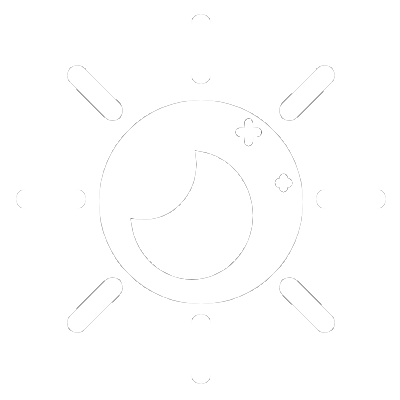
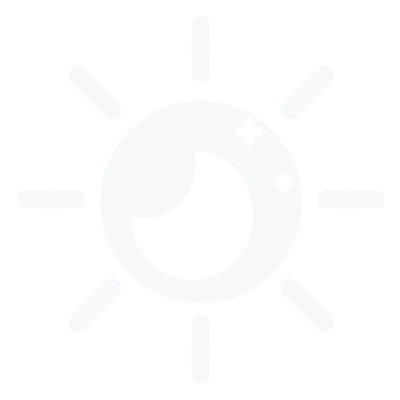
Better light mode (but still ugly), based on github light mode

diff --git a/src/web/css/main.css b/src/web/css/main.css
@@ -9,11 +9,11 @@
     --theme: url("../assets/pictures/theme_dark.png");
 }
 :root.light {
-    --backgound-main: #f1f1f1;
-    --backgroun-header: #ff975f;
-    --border-color: #484848;
-    --button-color: #c5c5c5;
-    --button-color-hover: #bbbbbb;
+    --backgound-main: #ffffff;
+    --backgroun-header: #f6f8fa;
+    --border-color: #d0d7de;
+    --button-color: #dddddd;
+    --button-color-hover: #cccccc;
     --secondary-color: #292929;
     --error-color: #e03939;
     --theme: url("../assets/pictures/theme_light.png");

diff --git a/src/web/html/index.html b/src/web/html/index.html
@@ -52,6 +52,7 @@
             <div class="chat_bottom">You cannot send messages for now</div>
         </div>
     </div>
+    <script src="../js/main.js"></script>
     <script src="../js/theme.js"></script>
 </body>
 

diff --git a/src/web/html/about.html b/src/web/html/about.html
@@ -26,7 +26,6 @@
     <div id="main_box">
 
     </div>
-    <script src="../js/main.js"></script>
     <script src="../js/theme.js"></script>
 </body>
 
